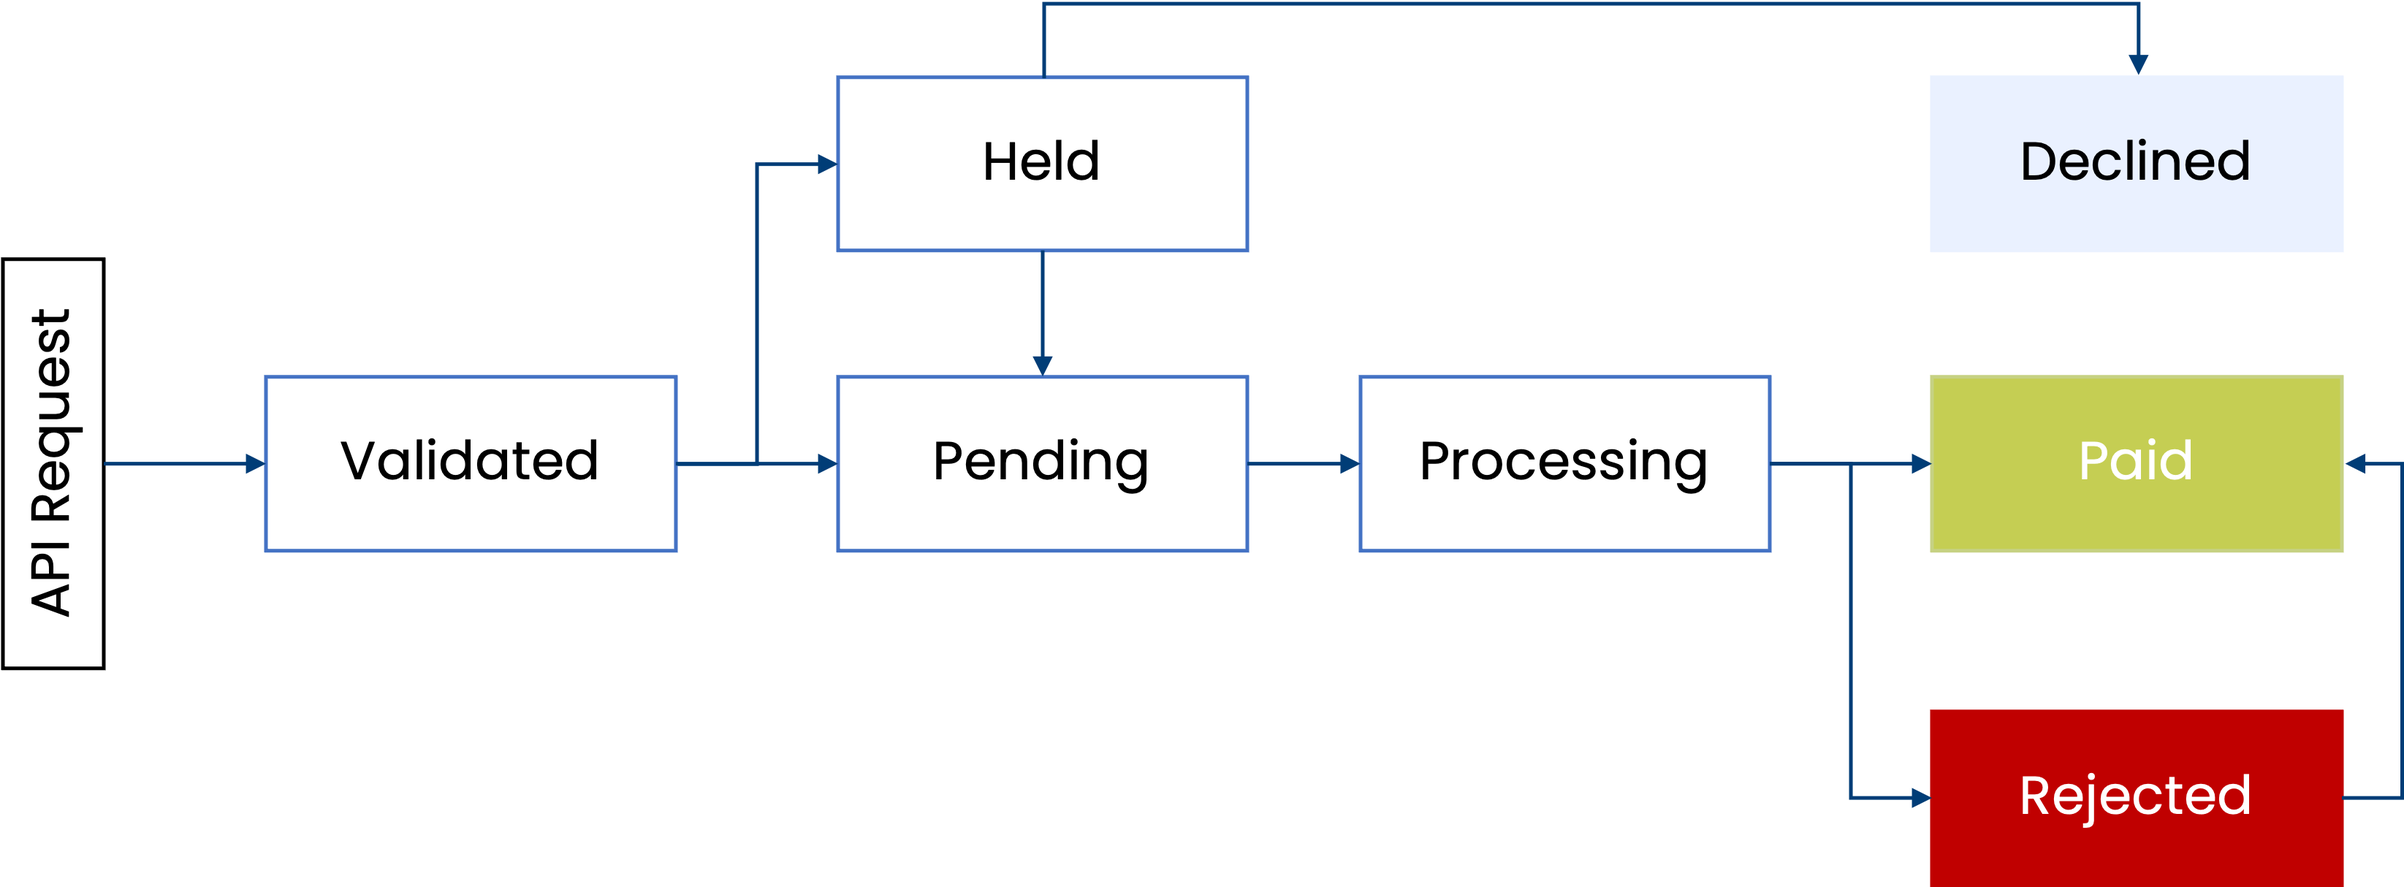
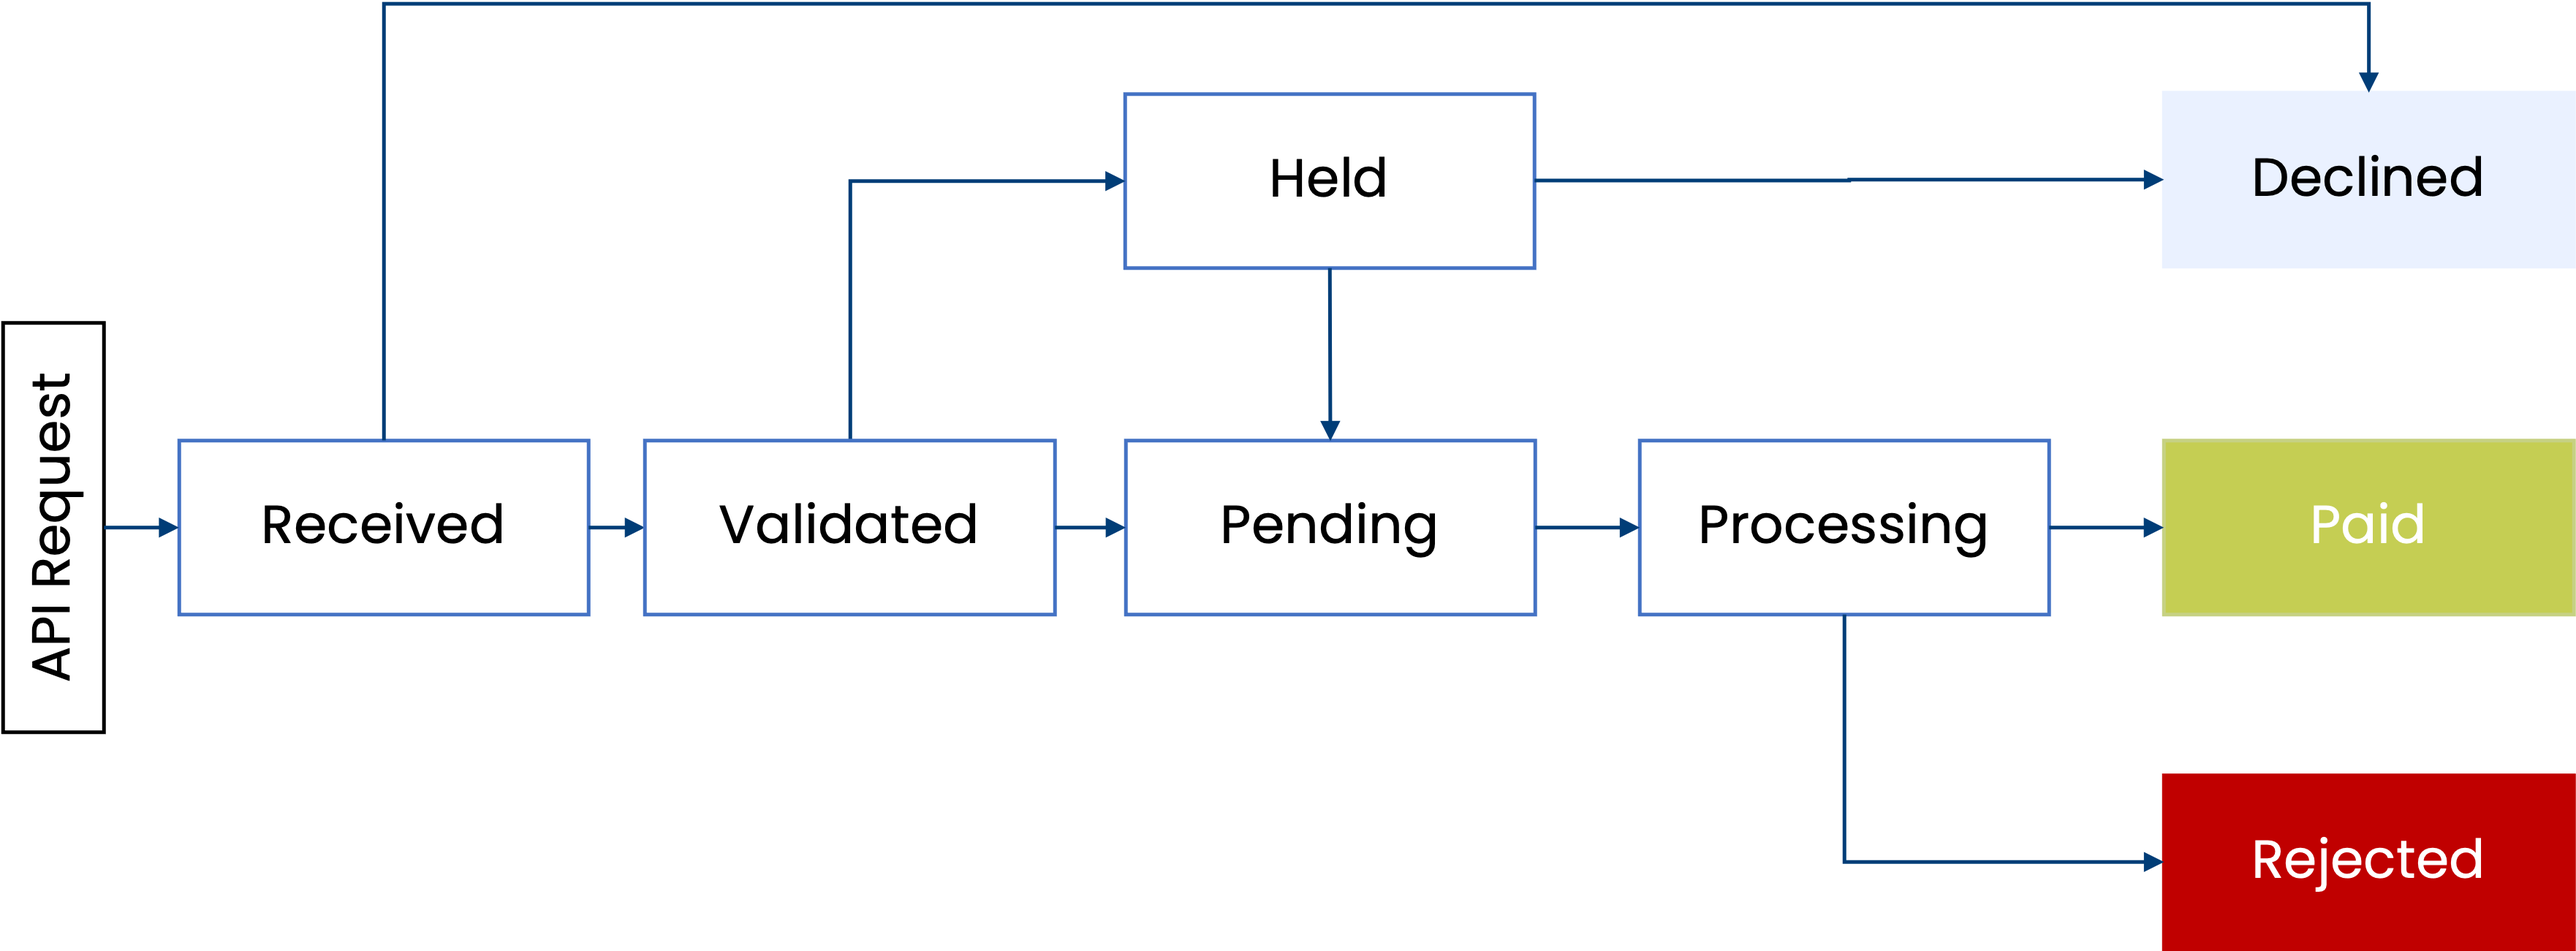
Publish July 11, 2023

diff --git a/public/payouts/overview.html b/public/payouts/overview.html
@@ -126,7 +126,7 @@
   aria-label="Search …"
   autocomplete="off"
   
-  data-offline-search-index-json-src="../offline-search-index.f1c81e992bee170e9b6e5d9f72d7e02a8e039358a97211932b674677fb78f6087f4c7a4e2e5fd4969bebcaf9a75d1a76b5f8c876e9c840615ed697f97edfd28f.json"
+  data-offline-search-index-json-src="../offline-search-index.b81d6696d70ee78bc9fc1c079483852d18ab7afc8a539ee69b9cfd559fe1ae89d20cb521bf9cc661a6a5f26aa062fe9092d3e7c8b7eb92a5dfa9265f1e00b789.json"
   data-offline-search-base-href="../"
 >
 
@@ -387,7 +387,7 @@
 <h2 id="benefits">Benefits</h2>
 <ul>
 <li>Our solution was created by industry experts.</li>
-<li><em><strong>Coverage</strong></em> - our services is in 8 countries and counting!.</li>
+<li><em><strong>Coverage</strong></em> - our services is in 7 countries and counting!.</li>
 <li><em><strong>Flexibility</strong></em> -  Connect easy using our API.</li>
 <li>We offer alternative Payouts transfers, as Nequi in Colombia.</li>
 <li>Using the The payout fee can be assumed either by you or your payee.</li>
@@ -567,9 +567,9 @@
 <br>
 <b>Last modified</b>
 
-June 29, 2023: 
+July 10, 2023: 
 
- <i>Chnges for bank account in Mexico and Argentina (4ef90a6)</i>
+ <i>Status flow updated (576141c)</i>
   </div>
 </div>
 

diff --git a/public/docs/payment-methods/argentina/ar-apm.html b/public/docs/payment-methods/argentina/ar-apm.html
@@ -130,7 +130,7 @@
   aria-label="Search …"
   autocomplete="off"
   
-  data-offline-search-index-json-src="../../../offline-search-index.f1c81e992bee170e9b6e5d9f72d7e02a8e039358a97211932b674677fb78f6087f4c7a4e2e5fd4969bebcaf9a75d1a76b5f8c876e9c840615ed697f97edfd28f.json"
+  data-offline-search-index-json-src="../../../offline-search-index.b81d6696d70ee78bc9fc1c079483852d18ab7afc8a539ee69b9cfd559fe1ae89d20cb521bf9cc661a6a5f26aa062fe9092d3e7c8b7eb92a5dfa9265f1e00b789.json"
   data-offline-search-base-href="../../../"
 >
 

diff --git a/public/docs/payment-methods/argentina/ar-cards.html b/public/docs/payment-methods/argentina/ar-cards.html
@@ -130,7 +130,7 @@
   aria-label="Search …"
   autocomplete="off"
   
-  data-offline-search-index-json-src="../../../offline-search-index.f1c81e992bee170e9b6e5d9f72d7e02a8e039358a97211932b674677fb78f6087f4c7a4e2e5fd4969bebcaf9a75d1a76b5f8c876e9c840615ed697f97edfd28f.json"
+  data-offline-search-index-json-src="../../../offline-search-index.b81d6696d70ee78bc9fc1c079483852d18ab7afc8a539ee69b9cfd559fe1ae89d20cb521bf9cc661a6a5f26aa062fe9092d3e7c8b7eb92a5dfa9265f1e00b789.json"
   data-offline-search-base-href="../../../"
 >
 

diff --git a/public/docs/payment-methods/brazil/br-apm.html b/public/docs/payment-methods/brazil/br-apm.html
@@ -130,7 +130,7 @@
   aria-label="Search …"
   autocomplete="off"
   
-  data-offline-search-index-json-src="../../../offline-search-index.f1c81e992bee170e9b6e5d9f72d7e02a8e039358a97211932b674677fb78f6087f4c7a4e2e5fd4969bebcaf9a75d1a76b5f8c876e9c840615ed697f97edfd28f.json"
+  data-offline-search-index-json-src="../../../offline-search-index.b81d6696d70ee78bc9fc1c079483852d18ab7afc8a539ee69b9cfd559fe1ae89d20cb521bf9cc661a6a5f26aa062fe9092d3e7c8b7eb92a5dfa9265f1e00b789.json"
   data-offline-search-base-href="../../../"
 >
 

diff --git a/public/docs/payment-methods/brazil/br-cards.html b/public/docs/payment-methods/brazil/br-cards.html
@@ -130,7 +130,7 @@
   aria-label="Search …"
   autocomplete="off"
   
-  data-offline-search-index-json-src="../../../offline-search-index.f1c81e992bee170e9b6e5d9f72d7e02a8e039358a97211932b674677fb78f6087f4c7a4e2e5fd4969bebcaf9a75d1a76b5f8c876e9c840615ed697f97edfd28f.json"
+  data-offline-search-index-json-src="../../../offline-search-index.b81d6696d70ee78bc9fc1c079483852d18ab7afc8a539ee69b9cfd559fe1ae89d20cb521bf9cc661a6a5f26aa062fe9092d3e7c8b7eb92a5dfa9265f1e00b789.json"
   data-offline-search-base-href="../../../"
 >
 

diff --git a/public/docs/payment-methods/central-america/cam-apm.html b/public/docs/payment-methods/central-america/cam-apm.html
@@ -130,7 +130,7 @@
   aria-label="Search …"
   autocomplete="off"
   
-  data-offline-search-index-json-src="../../../offline-search-index.f1c81e992bee170e9b6e5d9f72d7e02a8e039358a97211932b674677fb78f6087f4c7a4e2e5fd4969bebcaf9a75d1a76b5f8c876e9c840615ed697f97edfd28f.json"
+  data-offline-search-index-json-src="../../../offline-search-index.b81d6696d70ee78bc9fc1c079483852d18ab7afc8a539ee69b9cfd559fe1ae89d20cb521bf9cc661a6a5f26aa062fe9092d3e7c8b7eb92a5dfa9265f1e00b789.json"
   data-offline-search-base-href="../../../"
 >
 

diff --git a/public/docs/payment-methods/chile/cl-apm.html b/public/docs/payment-methods/chile/cl-apm.html
@@ -130,7 +130,7 @@
   aria-label="Search …"
   autocomplete="off"
   
-  data-offline-search-index-json-src="../../../offline-search-index.f1c81e992bee170e9b6e5d9f72d7e02a8e039358a97211932b674677fb78f6087f4c7a4e2e5fd4969bebcaf9a75d1a76b5f8c876e9c840615ed697f97edfd28f.json"
+  data-offline-search-index-json-src="../../../offline-search-index.b81d6696d70ee78bc9fc1c079483852d18ab7afc8a539ee69b9cfd559fe1ae89d20cb521bf9cc661a6a5f26aa062fe9092d3e7c8b7eb92a5dfa9265f1e00b789.json"
   data-offline-search-base-href="../../../"
 >
 

diff --git a/public/docs/payment-methods/chile/cl-cards.html b/public/docs/payment-methods/chile/cl-cards.html
@@ -130,7 +130,7 @@
   aria-label="Search …"
   autocomplete="off"
   
-  data-offline-search-index-json-src="../../../offline-search-index.f1c81e992bee170e9b6e5d9f72d7e02a8e039358a97211932b674677fb78f6087f4c7a4e2e5fd4969bebcaf9a75d1a76b5f8c876e9c840615ed697f97edfd28f.json"
+  data-offline-search-index-json-src="../../../offline-search-index.b81d6696d70ee78bc9fc1c079483852d18ab7afc8a539ee69b9cfd559fe1ae89d20cb521bf9cc661a6a5f26aa062fe9092d3e7c8b7eb92a5dfa9265f1e00b789.json"
   data-offline-search-base-href="../../../"
 >
 

diff --git a/public/docs/payment-methods/colombia/co-apm.html b/public/docs/payment-methods/colombia/co-apm.html
@@ -130,7 +130,7 @@
   aria-label="Search …"
   autocomplete="off"
   
-  data-offline-search-index-json-src="../../../offline-search-index.f1c81e992bee170e9b6e5d9f72d7e02a8e039358a97211932b674677fb78f6087f4c7a4e2e5fd4969bebcaf9a75d1a76b5f8c876e9c840615ed697f97edfd28f.json"
+  data-offline-search-index-json-src="../../../offline-search-index.b81d6696d70ee78bc9fc1c079483852d18ab7afc8a539ee69b9cfd559fe1ae89d20cb521bf9cc661a6a5f26aa062fe9092d3e7c8b7eb92a5dfa9265f1e00b789.json"
   data-offline-search-base-href="../../../"
 >
 

diff --git a/public/docs/payment-methods/colombia/co-cards.html b/public/docs/payment-methods/colombia/co-cards.html
@@ -130,7 +130,7 @@
   aria-label="Search …"
   autocomplete="off"
   
-  data-offline-search-index-json-src="../../../offline-search-index.f1c81e992bee170e9b6e5d9f72d7e02a8e039358a97211932b674677fb78f6087f4c7a4e2e5fd4969bebcaf9a75d1a76b5f8c876e9c840615ed697f97edfd28f.json"
+  data-offline-search-index-json-src="../../../offline-search-index.b81d6696d70ee78bc9fc1c079483852d18ab7afc8a539ee69b9cfd559fe1ae89d20cb521bf9cc661a6a5f26aa062fe9092d3e7c8b7eb92a5dfa9265f1e00b789.json"
   data-offline-search-base-href="../../../"
 >
 

diff --git a/public/docs/payment-methods/ecuador/ec-apm.html b/public/docs/payment-methods/ecuador/ec-apm.html
@@ -130,7 +130,7 @@
   aria-label="Search …"
   autocomplete="off"
   
-  data-offline-search-index-json-src="../../../offline-search-index.f1c81e992bee170e9b6e5d9f72d7e02a8e039358a97211932b674677fb78f6087f4c7a4e2e5fd4969bebcaf9a75d1a76b5f8c876e9c840615ed697f97edfd28f.json"
+  data-offline-search-index-json-src="../../../offline-search-index.b81d6696d70ee78bc9fc1c079483852d18ab7afc8a539ee69b9cfd559fe1ae89d20cb521bf9cc661a6a5f26aa062fe9092d3e7c8b7eb92a5dfa9265f1e00b789.json"
   data-offline-search-base-href="../../../"
 >
 

diff --git a/public/docs/payment-methods/mexico/mx-apm.html b/public/docs/payment-methods/mexico/mx-apm.html
@@ -130,7 +130,7 @@
   aria-label="Search …"
   autocomplete="off"
   
-  data-offline-search-index-json-src="../../../offline-search-index.f1c81e992bee170e9b6e5d9f72d7e02a8e039358a97211932b674677fb78f6087f4c7a4e2e5fd4969bebcaf9a75d1a76b5f8c876e9c840615ed697f97edfd28f.json"
+  data-offline-search-index-json-src="../../../offline-search-index.b81d6696d70ee78bc9fc1c079483852d18ab7afc8a539ee69b9cfd559fe1ae89d20cb521bf9cc661a6a5f26aa062fe9092d3e7c8b7eb92a5dfa9265f1e00b789.json"
   data-offline-search-base-href="../../../"
 >
 
